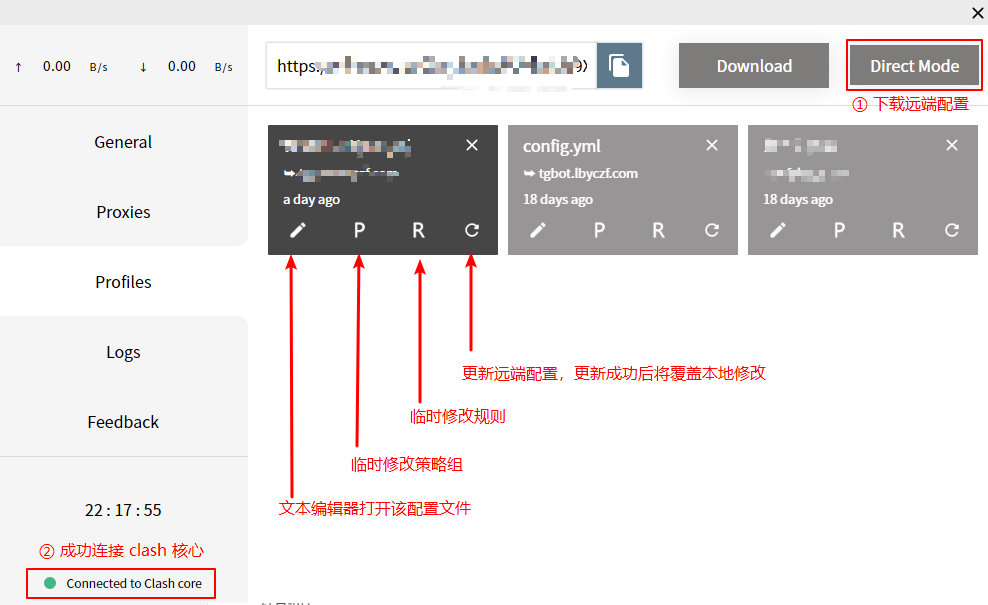
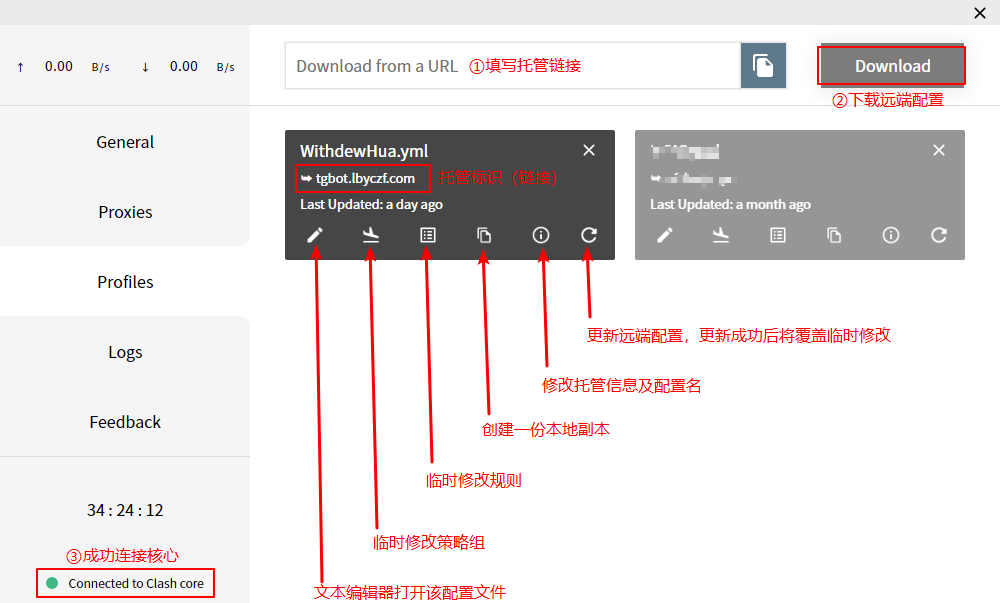
update：更新文章 clash； fix：尝试修改 sw 问题

diff --git a/sw.js b/sw.js
@@ -22,30 +22,24 @@ self.addEventListener("unhandledrejection", function(e) {
   });
 });
 
-importScripts("https://cdn.jsdelivr.net/npm/workbox-cdn@3.6.3/workbox/workbox-sw.js");
+const workboxVersion = '4.3.1';
+
+importScripts(`https://cdn.jsdelivr.net/npm/workbox-cdn@${workboxVersion}/workbox/workbox-sw.js`);
+
 workbox.setConfig({
   debug: false,
-  modulePathPrefix: "https://cdn.jsdelivr.net/npm/workbox-cdn@3.6.3/workbox/"
+  modulePathPrefix: `https://cdn.jsdelivr.net/npm/workbox-cdn@${workboxVersion}/workbox/`
 });
-workbox.skipWaiting();
-workbox.clientsClaim();
+workbox.core.skipWaiting();
+workbox.core.clientsClaim();
 
 const maxEntries = 100;
 
+
+// GA 统计不缓存
 workbox.routing.registerRoute(
-  new RegExp(/https:\/\/withdewhua\.space\/.*/),
-  workbox.strategies.staleWhileRevalidate({
-    cacheName: "fcj:blog",
-    plugins: [
-      new workbox.expiration.Plugin({
-        maxEntries,
-        maxAgeSeconds: 30 * 24 * 60 * 60
-      }),
-      new workbox.cacheableResponse.Plugin({
-        statuses: [0, 200]
-      })
-    ]
-  })
+  new RegExp('^https://ga\.giuem\.com'),
+  new workbox.strategies.NetworkOnly()
 );
 
 // 图片、样式表、字体文件等
